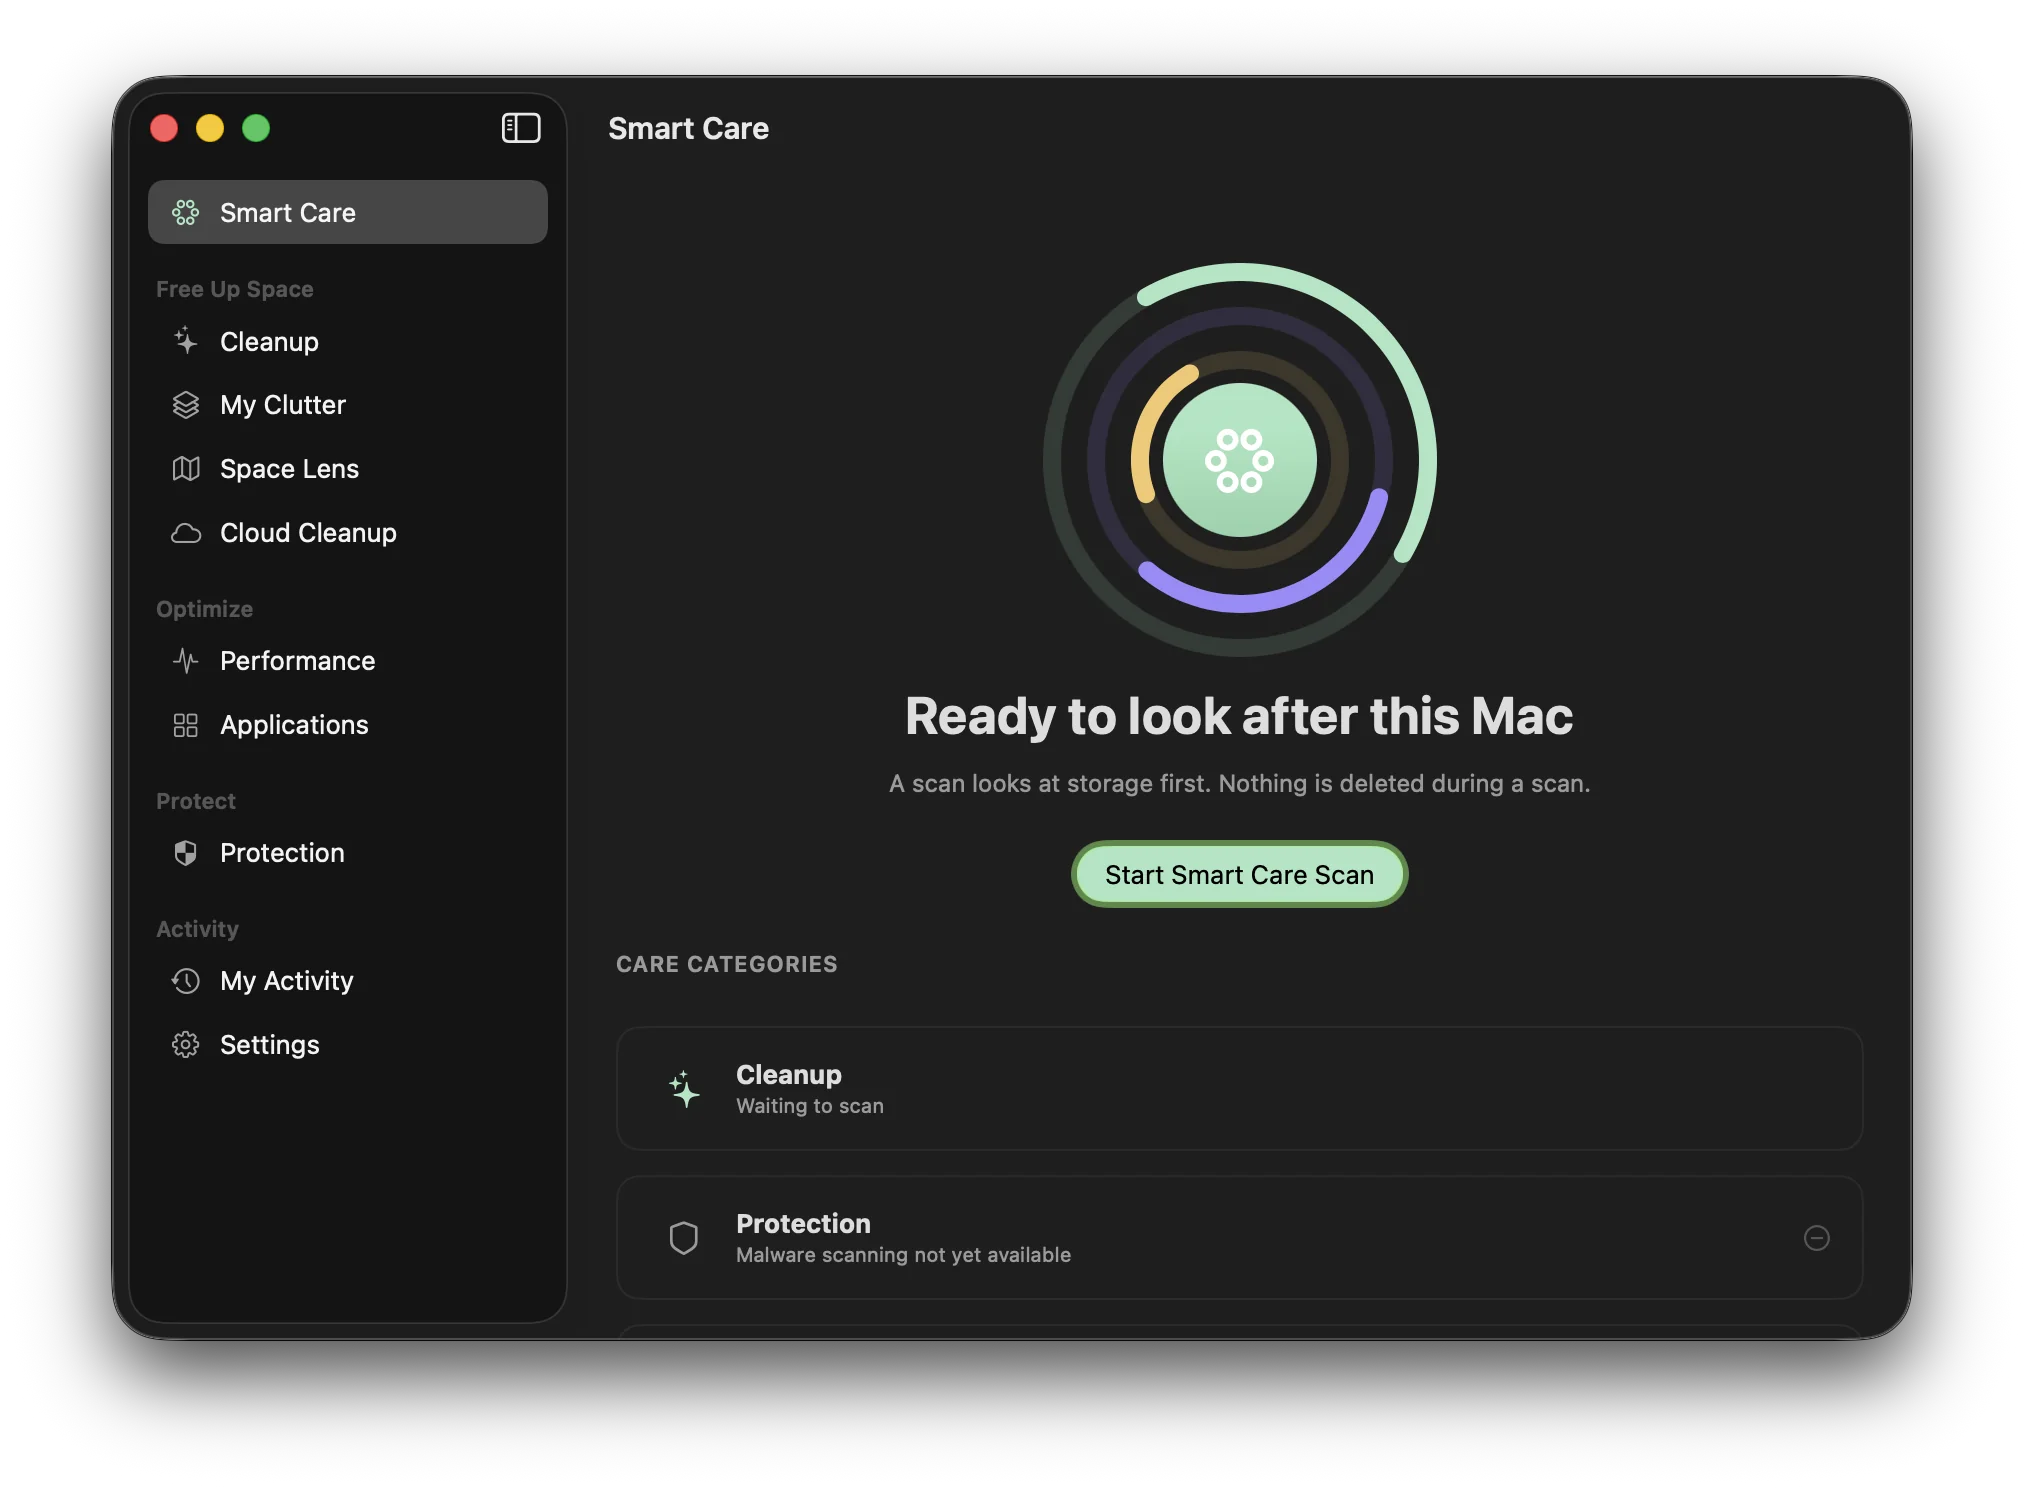
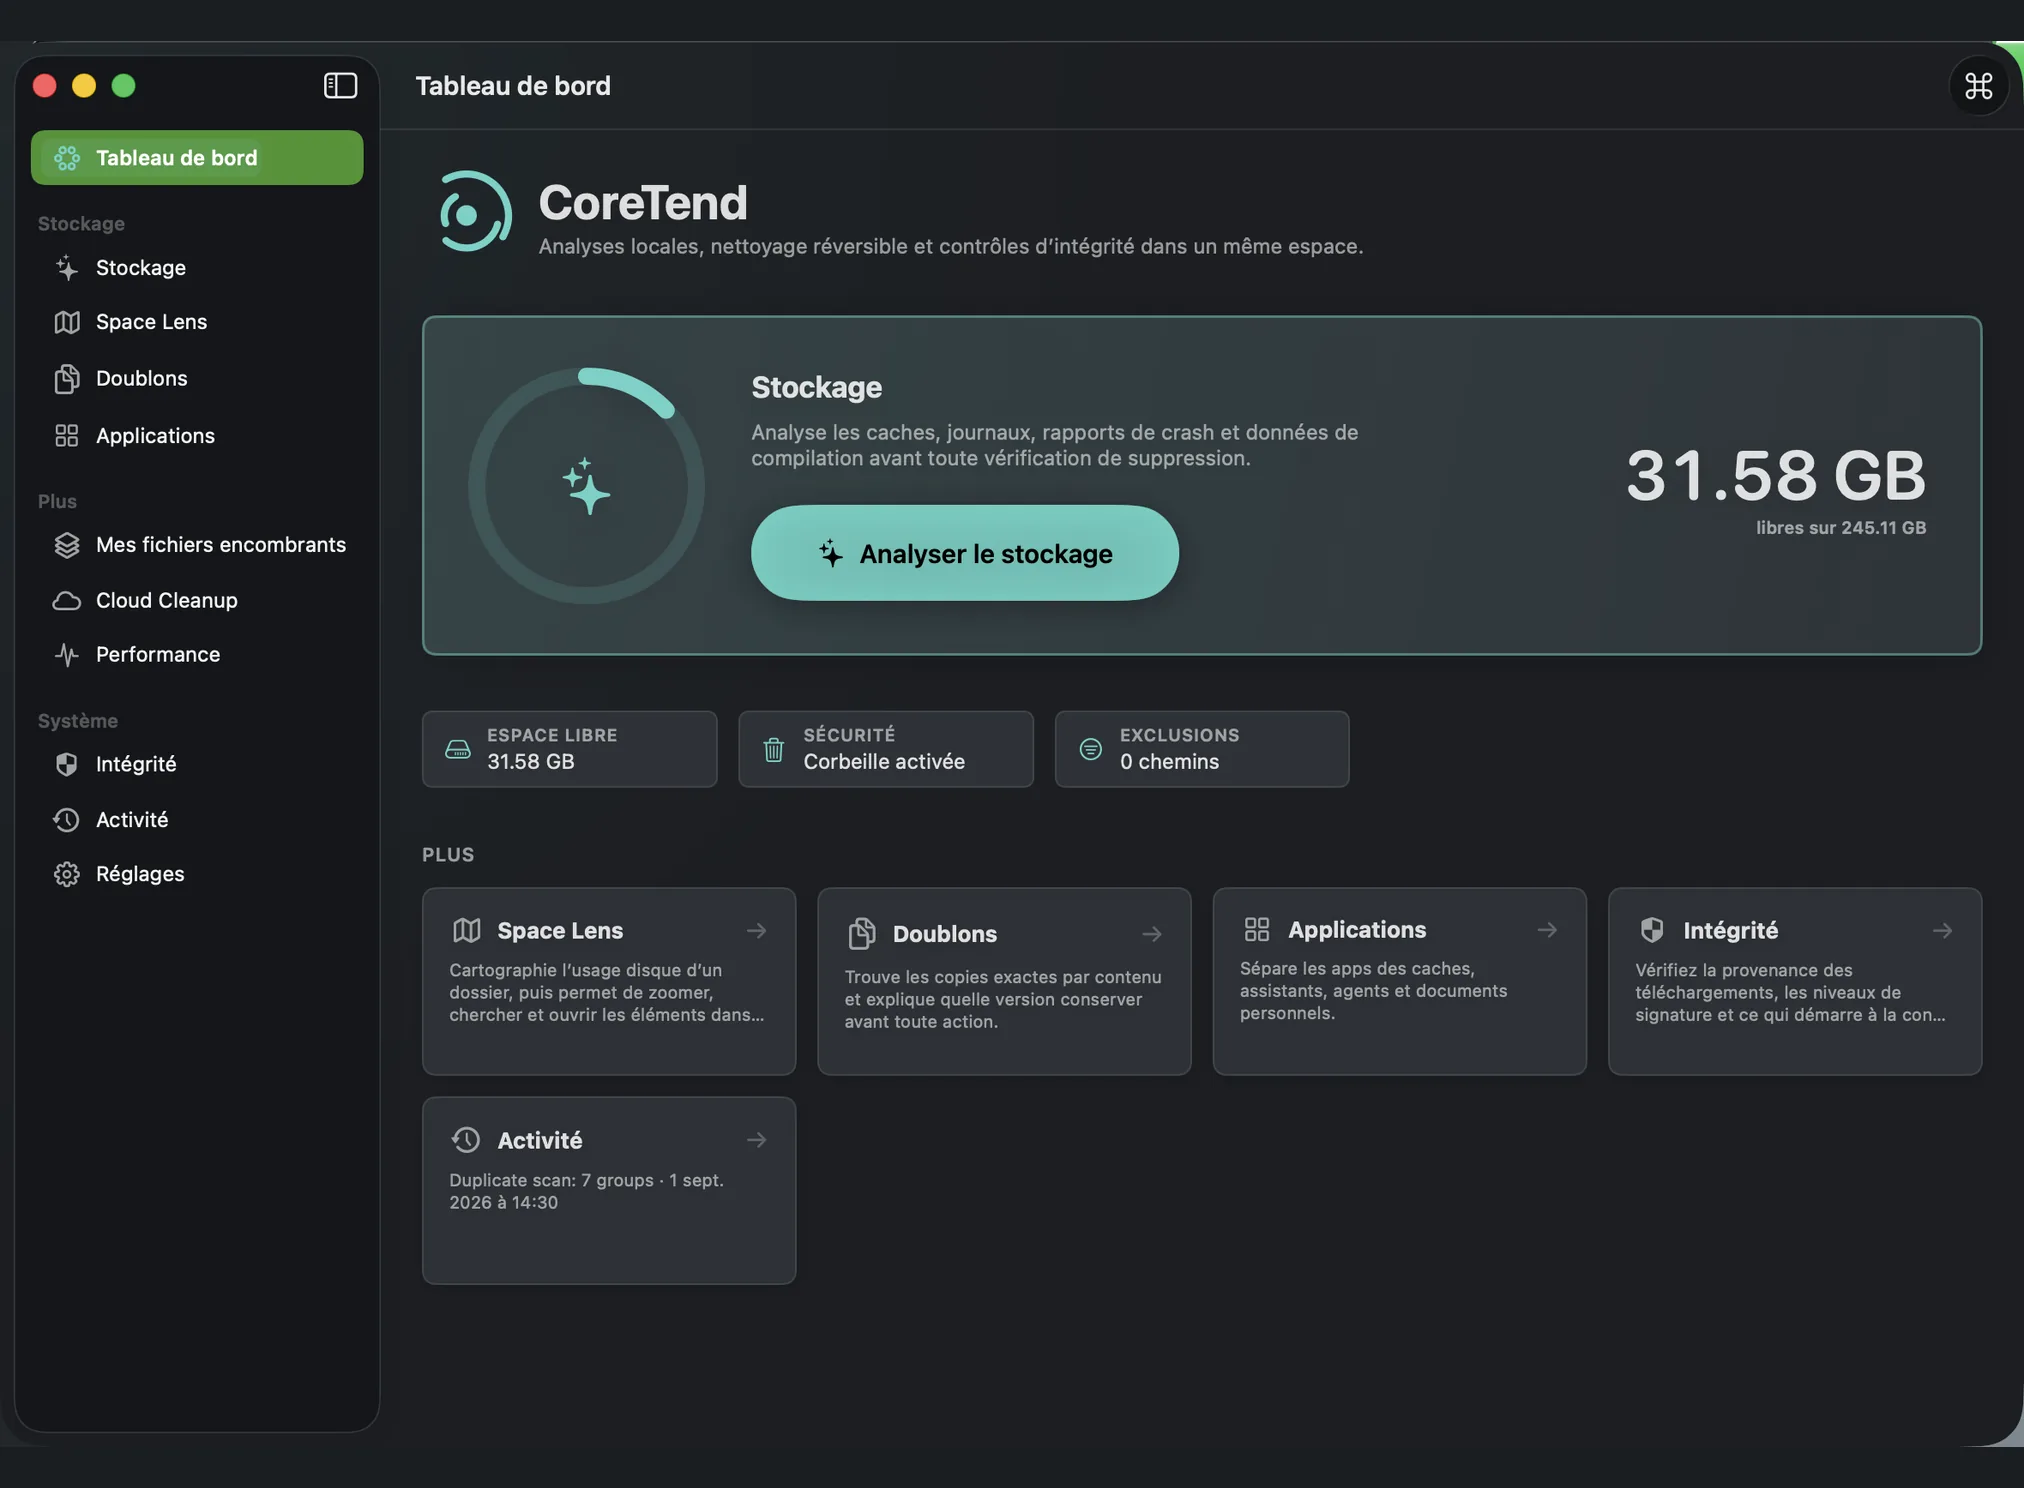
fix(app-ui): Protection sub-nav off TabView; MCAppear fires once; fresh site shots
- ProtectionView: replaced the TabView with a plain segmented Picker pinned
  via .safeAreaInset. A TabView as a NavigationSplitView detail can blank the
  split view's sidebar on macOS; the Picker version renders the sidebar
  correctly (verified in the running app). Same visual result — an
  "Integrity | Privacy" segmented control at the top.
- MCAppear: dropped the onDisappear reset so the entrance animation fires
  once instead of re-triggering on every re-appear; the churn could stall
  sibling AppKit-hosted controls.
- Website/assets/app: replaced the stale 0.9.0 smart-care shot and added
  fresh 2024x1488 captures of the redesigned Dashboard, Cleanup, Space Lens,
  Performance and Applications (clean, metadata-stripped). Not yet wired into
  the deployed index.html — available for the site pass and the README.

Known issue, not fixed here: "My Clutter" still shows a blank sidebar — it is
also a TabView detail AND its Large&Old landing has menu-style Pickers, which
independently trigger the same sidebar-paint bug. Needs its own focused fix.

340 tests pass; release build clean.

Claude-Session: https://claude.ai/code/session_012js68sByAxZ6WugPBiyTQG

diff --git a/Sources/CoreTendApp/ProtectionView.swift b/Sources/CoreTendApp/ProtectionView.swift
@@ -63,14 +63,31 @@ final class IntegrityViewModel {
 }
 
 struct ProtectionView: View {
+    @State private var tab = 0
+
+    // Plain segmented sub-nav rather than a TabView: a TabView as a
+    // NavigationSplitView detail can intermittently blank the split view's
+    // sidebar on macOS.
     var body: some View {
-        TabView {
-            IntegrityView()
-                .tabItem { Label(L("protection.tab.integrity"), systemImage: "checkmark.seal") }
-            PrivacyCleanerView()
-                .tabItem { Label(L("protection.tab.privacy"), systemImage: "hand.raised") }
+        Group {
+            if tab == 0 { IntegrityView() } else { PrivacyCleanerView() }
         }
-        .padding(MCSpacing.xs)
+        .frame(maxWidth: .infinity, maxHeight: .infinity)
+        .safeAreaInset(edge: .top, spacing: 0) {
+            VStack(spacing: 0) {
+                Picker("", selection: $tab) {
+                    Text(L("protection.tab.integrity")).tag(0)
+                    Text(L("protection.tab.privacy")).tag(1)
+                }
+                .pickerStyle(.segmented)
+                .labelsHidden()
+                .frame(maxWidth: 360)
+                .padding(.vertical, MCSpacing.sm)
+                Divider()
+            }
+            .frame(maxWidth: .infinity)
+            .background(.bar)
+        }
         .navigationTitle(L("module.protection"))
         .accessibilityIdentifier("integrity.root")
     }

diff --git a/Sources/DesignSystem/Components.swift b/Sources/DesignSystem/Components.swift
@@ -333,7 +333,6 @@ public struct MCCanvasBackground: ViewModifier {
                 RadialGradient(colors: [MCColor.teal.opacity(0.06), .clear],
                                center: .topLeading, startRadius: 0, endRadius: 680)
             }
-            .ignoresSafeArea()
         )
     }
 }
@@ -346,8 +345,9 @@ public extension View {
 // MARK: - Entrance
 
 /// A quiet fade-and-rise on first appearance — transform + opacity only, a
-/// no-op under Reduce Motion. Re-runs when the view re-appears (e.g. the
-/// module is navigated back to), which is the intent.
+/// no-op under Reduce Motion. Fires once; it deliberately does not reset on
+/// disappear (resetting caused animation churn that could stall sibling
+/// AppKit-hosted controls like `Picker` in a split-view detail).
 public struct MCAppear: ViewModifier {
     private let delay: Double
     @State private var shown = false
@@ -360,10 +360,9 @@ public struct MCAppear: ViewModifier {
             .opacity(shown || reduceMotion ? 1 : 0)
             .offset(y: shown || reduceMotion ? 0 : 8)
             .onAppear {
-                guard !reduceMotion else { return }
+                guard !reduceMotion, !shown else { return }
                 withAnimation(.smooth(duration: 0.4).delay(delay)) { shown = true }
             }
-            .onDisappear { shown = false }
     }
 }
 
